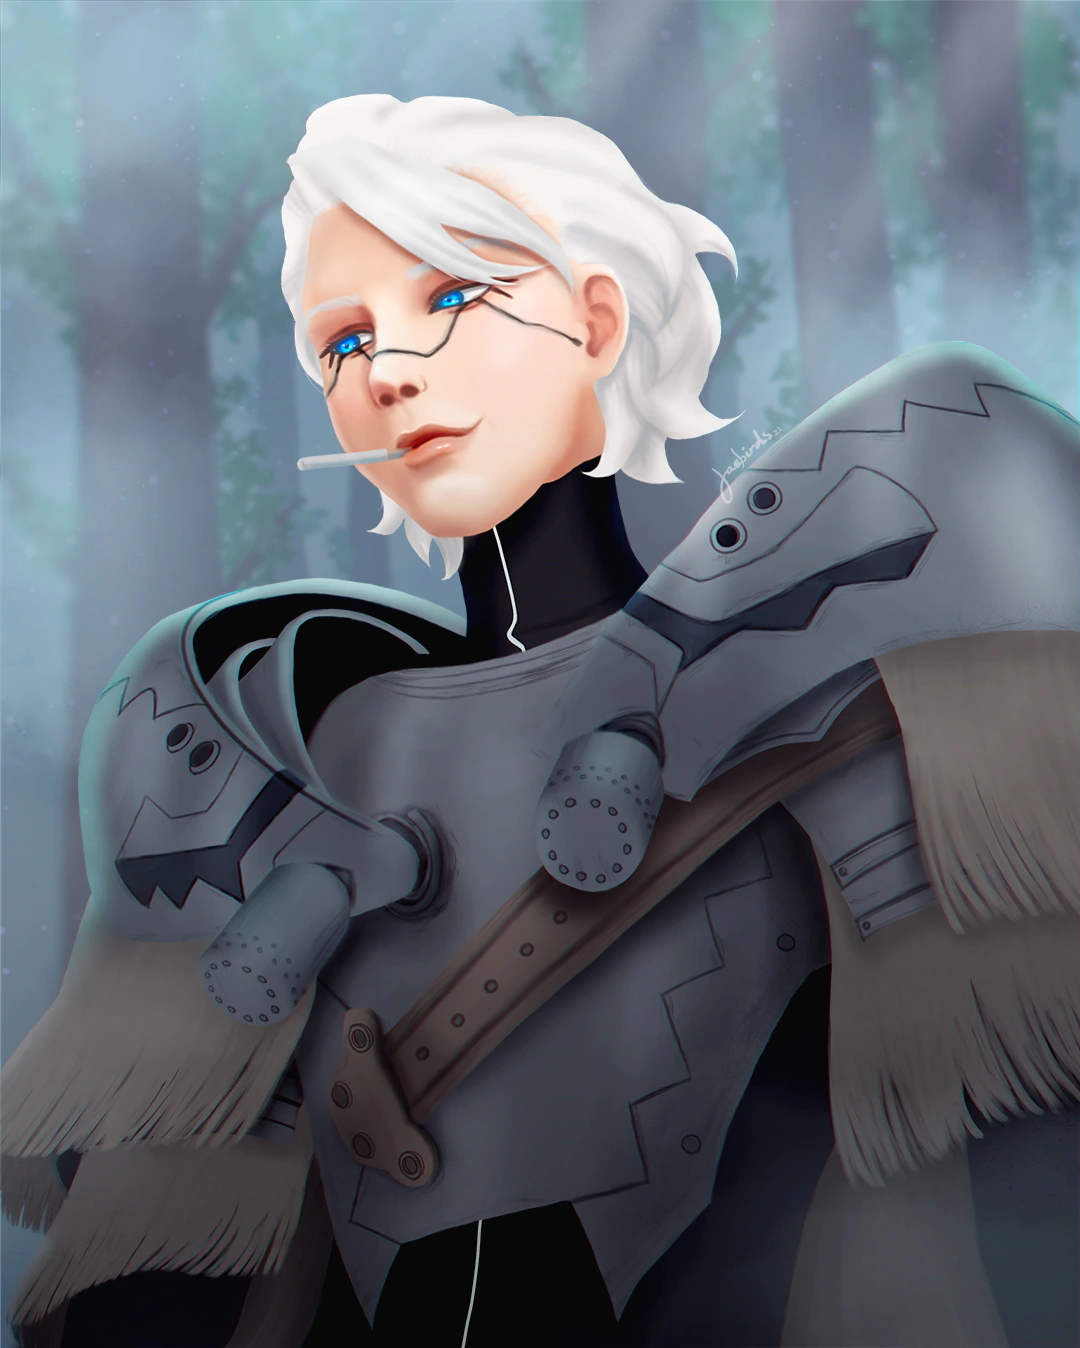
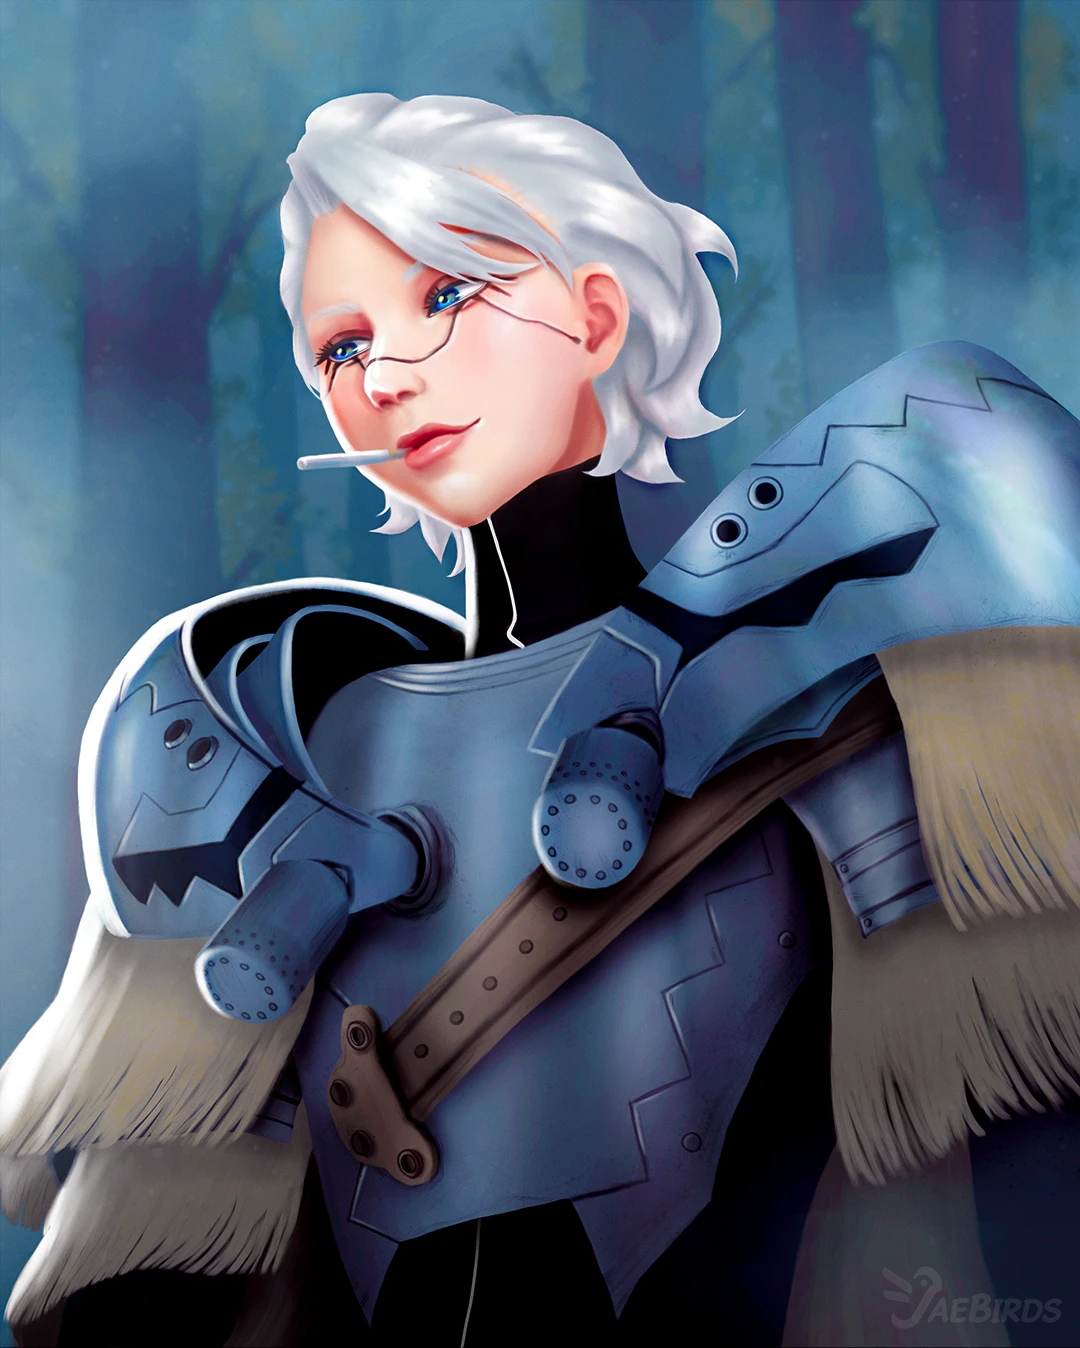
Added new art and fixed sidebar hover

diff --git a/dist/style.css b/dist/style.css
@@ -1,1 +1,1 @@
-html{display:none}.tooltiptheme{border-radius:5px;font-family:"Lato",sans-serif;font-size:.8rem;background:#8f51e1;color:#fff}*::-moz-selection{background-color:#8093f1;color:#fff}*::selection,*::-moz-selection,*::-webkit-selection{background-color:#8093f1;color:#fff}html,body,p,blockquote{font-size:12pt;margin:0;padding:0;list-style:none}p{margin-bottom:10px}body{font-family:"Lato",sans-serif;color:#444;background:#fdc5f5;background:linear-gradient(180deg, rgb(253, 197, 245) 0%, rgb(179, 136, 235) 100%);background-repeat:no-repeat;background-attachment:fixed}small{font-size:.6rem}big{font-size:10.9rem}ul{text-align:left}ul,ol{margin-left:-25px}hr{border:0;height:1px;background-image:linear-gradient(to right, rgba(0, 0, 0, 0), rgba(0, 0, 0, 0.75), rgba(0, 0, 0, 0))}a{color:#8093f1;text-decoration:none;position:relative;transition:all .4s ease-in-out}a[data-fancybox]{cursor:zoom-in}#content{position:absolute;top:55px;margin-left:320px}#overlay{position:relative;opacity:.9;z-index:9}#sidebarbg,#topbar,#topbarmask{background-color:#fff}#sidebarbg{position:fixed;height:100%;width:300px;left:0;padding-top:150px;margin-left:0;box-shadow:0 0 15px 0 rgba(0,0,0,.15)}#sidebar{position:absolute;height:auto;width:auto;max-width:450px;bottom:12%;right:10px;float:right}#topbar{position:fixed;width:100%;height:45px;top:0;z-index:9;box-shadow:0 0 10px 0 rgba(0,0,0,.15);-webkit-user-select:none;-moz-user-select:none;user-select:none}#topbar .right-aligned{position:absolute;padding:7px 10px;padding-right:55px;right:0px;z-index:9;font-size:1.2rem}#topbar .right-aligned i,#topbar .right-aligned #topbar img{color:#b388eb;vertical-align:middle;display:inline-block;transition:all .3s ease-in-out}#topbar .right-aligned i :hover,#topbar .right-aligned #topbar img :hover{color:#8f51e1}#topbarcontent{position:absolute;width:100%;height:20px;padding:8px 10px;left:350px;text-align:center}#topbarmask{position:fixed;width:300px;height:60px;left:0px;z-index:10}.bottom-bar{text-align:center;padding:8px;font-size:1.3rem;display:none}.bottom-bar i,.bottom-bar img{color:#b388eb;margin:0px 3px}.menubutton{float:left;font-size:1.3rem;padding:1px 15px;color:#8093f1;text-align:center;letter-spacing:0;cursor:pointer;transition:all .3s ease-in-out}.menubutton :hover{letter-spacing:1px;color:#4763eb}#sidebarbg h3{font-size:1.6rem;padding:0 25px;color:#8f51e1;font-weight:normal}.sort-menu{list-style-type:none;padding:0;overflow-y:auto;max-height:calc(100vh - 140px)}.sort-menu li{padding:7px;padding-left:80px;font-size:1.3rem;cursor:pointer;color:#444;background-color:#fff;transition:all .4s ease-in-out}.sort-menu li :hover{background-color:#fdc5f5;color:#111}.sort-menu li.sub-menu{padding:5px;padding-left:90px;font-size:.85rem}.sort-menu li.selected{background-color:#72ddf7;color:#333}#website-logo{position:fixed;top:50px;left:30px;height:100px;width:220px;background-size:contain;background-repeat:no-repeat;background-image:url("/images/jaebirds logo.webp");z-index:99}#website-logo.mini{top:5px;left:55px;height:35px;width:150px}.item{width:calc(25% - 11px);max-width:500px;min-height:100px;margin-bottom:8px;background-color:#eee;background-image:url("/images/loader.gif");background-repeat:no-repeat;background-position:center}.item img{max-width:100%;transition:all .3s ease-in-out}.item img,.item video,.item iframe{margin-bottom:-4px}.item .video-container{position:relative;padding-bottom:56.25%;height:0;overflow:hidden}.item .video-container iframe{pointer-events:none;position:absolute;top:0;left:0;width:100%;height:100%}.item video{max-width:100%;width:100%}.item,x:-moz-any-link{margin:7px}.item-bottom{position:absolute;bottom:0px;background-color:#000;color:#fff;opacity:0;height:20px;width:calc(100% - 10px);text-align:center;padding:5px;transition:all .3s ease-in-out}.item-bottom a{color:#fff}.item-bottom i{color:#f7aef8;margin:0 4px}.item:hover .item-bottom{opacity:.75}.video-item-icon{position:absolute;display:flex;justify-content:center;align-items:center;font-size:50pt;color:#fff;opacity:.8;top:0;width:100%;height:100%;pointer-events:none;transition:all .3s ease-in-out}.video-item-icon i{background-color:rgba(128,147,241,.75);padding:25px 30px;border-radius:15px}.item:hover .video-item-icon{opacity:1}.end-card{background-color:#fff;background-image:none;display:table;height:200px}.end-card p{padding:5px;display:table-cell;vertical-align:middle;text-align:center}.end-card i{font-size:5rem;margin:5px auto;opacity:.1;position:absolute;top:50%;left:50%;transform:translate(-50%, -50%)}.content-popup{position:fixed;height:auto;max-height:80%;background-color:#fff;border-radius:3px;padding:20px;width:500px;max-width:85vw;margin-top:70px;left:50%;transform:translate(-50%, 0%);margin-bottom:30px;display:none;text-align:center;opacity:.9;overflow-x:hidden;overflow-y:auto}.content-popup h1{font-style:italic;color:#8093f1}.content-popup>p{margin:15px auto;padding:10px;text-align:justify;-moz-text-align-last:center;text-align-last:center}.profile-image{width:120px;height:120px;margin:10px auto;border-radius:120px;background-image:url("/images/me.jpg");background-size:cover}figure.shine{position:relative}figure.shine::before{position:absolute;top:0;left:-75%;z-index:2;display:block;content:"";width:50%;height:100%;background:linear-gradient(to right, rgba(255, 255, 255, 0) 0%, rgba(255, 255, 255, 0.3) 100%);transform:skewX(-25deg)}figure.shine.shine:hover::before{animation:shine 2s}@keyframes shine{100%{left:125%}}.about-container .about-item{display:inline-block;vertical-align:top;padding:10px;margin:3px;width:120px}.about-container .about-item h2{font-size:1.2rem;line-height:25pt}.about-container .about-item i{font-size:4rem;margin-bottom:10px;display:inline-block;vertical-align:middle}.about-container .about-item p{text-align:left;padding-left:10px;margin-bottom:0}.about-container .about-item ul{padding:0;margin:0}.about-container .about-item ul li:first-child{margin-top:5px}.about-container .about-item span{font-weight:bold;font-style:italic;margin-right:8px}.about-container .about-item:first-of-type i,.about-container .about-item:first-of-type h2,.about-container .about-item:first-of-type span{color:#f38af5}.about-container .about-item:nth-of-type(2){width:150px}.about-container .about-item:nth-of-type(2) i,.about-container .about-item:nth-of-type(2) h2,.about-container .about-item:nth-of-type(2) span{color:#b388eb}.about-container .about-item:nth-of-type(3) i,.about-container .about-item:nth-of-type(3) h2{color:#8093f1}.about-container ul{list-style-type:none;padding:0px;padding-left:10px}.about-container ul.skills>li{margin-bottom:2px;font-weight:bold}.about-container ul.skills ul{font-size:.8rem;list-style-type:none;padding-left:5px;margin-bottom:10px}.about-container ul.skills i,.about-container ul.dreams i{font-size:.8rem;margin-bottom:0}.about-container ul ul li{padding:4px 5px;margin:0;font-size:.8rem;font-weight:normal}.about-container ul.dreams li{margin-bottom:4px}#contact-popup form{text-align:left;padding:5px 20%}#contact-popup form label{margin-bottom:3px;display:block}#contact-popup form input,#contact-popup form select,#contact-popup form textarea{width:100%}#contact-popup form textarea{resize:none}#contact-popup form .centered{width:auto;margin:0 auto;text-align:center}#contact-popup form button{margin:5px;padding:20px;width:100px;background-color:#b388eb;color:#fff;font-weight:bold;font-size:1rem;border:none;cursor:pointer}#contact-popup .error{color:red}#contact-popup .fa-envelope{margin-right:8px}#contactFormError{display:none}#contactFormSubmitted{position:absolute;width:100%;text-align:center;font-weight:bold;display:none}.fancybox-caption__body a{text-decoration:underline !important}@media screen and (max-width: 1845px){.item{width:calc(33% - 8px)}}@media screen and (max-width: 1350px){.item{width:calc(49% - 5px)}}@media screen and (max-width: 1280px){html{font-size:14pt}#sidebarbg{margin-left:-300px;padding-top:80px;width:250px}#overlay{opacity:.95}#topbar{height:60px}#topbar .right-aligned{padding:14px 22px 14px 10px}#topbarmask{display:none}#topbarcontent{margin-left:-280px}.menubutton{font-size:1rem;padding:10px 15px 9px 15px}#content{margin-left:0px !important;width:calc(100vw - 60px);padding:0 30px;top:70px;left:50%;transform:translate(-50%, 0%);text-align:center}.item,.item iframe{width:calc(35% - 46px)}#website-logo,#website-logo.mini{top:7px;left:20px;height:45px;width:50px;background-image:url("/images/jaebirds logo small.webp")}}@media screen and (max-width: 1000px){.item,.item iframe{width:calc(50% - 36px)}}@media screen and (max-width: 600px){.item{width:calc(100% - 60px)}}@media screen and (max-width: 524px){#topbar .right-aligned{display:none}.bottom-bar{display:block}.about-item{display:block !important;margin:10px auto !important;width:150px !important}}
+html{display:none}.tooltiptheme{border-radius:5px;font-family:"Lato",sans-serif;font-size:.8rem;background:#8f51e1;color:#fff}*::-moz-selection{background-color:#8093f1;color:#fff}*::selection,*::-moz-selection,*::-webkit-selection{background-color:#8093f1;color:#fff}html,body,p,blockquote{font-size:12pt;margin:0;padding:0;list-style:none}p{margin-bottom:10px}body{font-family:"Lato",sans-serif;color:#444;background:#fdc5f5;background:linear-gradient(180deg, rgb(253, 197, 245) 0%, rgb(179, 136, 235) 100%);background-repeat:no-repeat;background-attachment:fixed}small{font-size:.6rem}big{font-size:10.9rem}ul{text-align:left}ul,ol{margin-left:-25px}hr{border:0;height:1px;background-image:linear-gradient(to right, rgba(0, 0, 0, 0), rgba(0, 0, 0, 0.75), rgba(0, 0, 0, 0))}a{color:#8093f1;text-decoration:none;position:relative;transition:all .4s ease-in-out}a[data-fancybox]{cursor:zoom-in}#content{position:absolute;top:55px;margin-left:320px}#overlay{position:relative;opacity:.9;z-index:9}#sidebarbg,#topbar,#topbarmask{background-color:#fff}#sidebarbg{position:fixed;height:100%;width:300px;left:0;padding-top:150px;margin-left:0;box-shadow:0 0 15px 0 rgba(0,0,0,.15)}#sidebar{position:absolute;height:auto;width:auto;max-width:450px;bottom:12%;right:10px;float:right}#topbar{position:fixed;width:100%;height:45px;top:0;z-index:9;box-shadow:0 0 10px 0 rgba(0,0,0,.15);-webkit-user-select:none;-moz-user-select:none;user-select:none}#topbar .right-aligned{position:absolute;padding:7px 10px;padding-right:55px;right:0px;z-index:9;font-size:1.2rem}#topbar .right-aligned i,#topbar .right-aligned #topbar img{color:#b388eb;vertical-align:middle;display:inline-block;transition:all .3s ease-in-out}#topbar .right-aligned i :hover,#topbar .right-aligned #topbar img :hover{color:#8f51e1}#topbarcontent{position:absolute;width:100%;height:20px;padding:8px 10px;left:350px;text-align:center}#topbarmask{position:fixed;width:300px;height:60px;left:0px;z-index:10}.bottom-bar{text-align:center;padding:8px;font-size:1.3rem;display:none}.bottom-bar i,.bottom-bar img{color:#b388eb;margin:0px 3px}.menubutton{float:left;font-size:1.3rem;padding:1px 15px;color:#8093f1;text-align:center;letter-spacing:0;cursor:pointer;transition:all .3s ease-in-out}.menubutton :hover{letter-spacing:1px;color:#4763eb}#sidebarbg h3{font-size:1.6rem;padding:0 25px;color:#8f51e1;font-weight:normal}.sort-menu{list-style-type:none;padding:0;overflow-y:auto;max-height:calc(100vh - 140px)}.sort-menu li{padding:7px;padding-left:80px;font-size:1.3rem;cursor:pointer;color:#444;background-color:#fff;transition:all .3s ease-in-out}.sort-menu li:hover{background-color:#fdc5f5;color:#111}.sort-menu li.sub-menu{padding:5px;padding-left:90px;font-size:.85rem}.sort-menu li.selected{background-color:#72ddf7;color:#333}#website-logo{position:fixed;top:50px;left:30px;height:100px;width:220px;background-size:contain;background-repeat:no-repeat;background-image:url("/images/jaebirds logo.webp");z-index:99}#website-logo.mini{top:5px;left:55px;height:35px;width:150px}.item{width:calc(25% - 11px);max-width:500px;min-height:100px;margin-bottom:8px;background-color:#eee;background-image:url("/images/loader.gif");background-repeat:no-repeat;background-position:center}.item img{max-width:100%;transition:all .3s ease-in-out}.item img,.item video,.item iframe{margin-bottom:-4px}.item .video-container{position:relative;padding-bottom:56.25%;height:0;overflow:hidden}.item .video-container iframe{pointer-events:none;position:absolute;top:0;left:0;width:100%;height:100%}.item video{max-width:100%;width:100%}.item,x:-moz-any-link{margin:7px}.item-bottom{position:absolute;bottom:0px;background-color:#000;color:#fff;opacity:0;height:20px;width:calc(100% - 10px);text-align:center;padding:5px;transition:all .3s ease-in-out}.item-bottom a{color:#fff}.item-bottom i{color:#f7aef8;margin:0 4px}.item:hover .item-bottom{opacity:.75}.video-item-icon{position:absolute;display:flex;justify-content:center;align-items:center;font-size:50pt;color:#fff;opacity:.8;top:0;width:100%;height:100%;pointer-events:none;transition:all .3s ease-in-out}.video-item-icon i{background-color:rgba(128,147,241,.75);padding:25px 30px;border-radius:15px}.item:hover .video-item-icon{opacity:1}.end-card{background-color:#fff;background-image:none;display:table;height:200px}.end-card p{padding:5px;display:table-cell;vertical-align:middle;text-align:center}.end-card i{font-size:5rem;margin:5px auto;opacity:.1;position:absolute;top:50%;left:50%;transform:translate(-50%, -50%)}.content-popup{position:fixed;height:auto;max-height:80%;background-color:#fff;border-radius:3px;padding:20px;width:500px;max-width:85vw;margin-top:70px;left:50%;transform:translate(-50%, 0%);margin-bottom:30px;display:none;text-align:center;opacity:.9;overflow-x:hidden;overflow-y:auto}.content-popup h1{font-style:italic;color:#8093f1}.content-popup>p{margin:15px auto;padding:10px;text-align:justify;-moz-text-align-last:center;text-align-last:center}.profile-image{width:120px;height:120px;margin:10px auto;border-radius:120px;background-image:url("/images/me.jpg");background-size:cover}figure.shine{position:relative}figure.shine::before{position:absolute;top:0;left:-75%;z-index:2;display:block;content:"";width:50%;height:100%;background:linear-gradient(to right, rgba(255, 255, 255, 0) 0%, rgba(255, 255, 255, 0.3) 100%);transform:skewX(-25deg)}figure.shine.shine:hover::before{animation:shine 2s}@keyframes shine{100%{left:125%}}.about-container .about-item{display:inline-block;vertical-align:top;padding:10px;margin:3px;width:120px}.about-container .about-item h2{font-size:1.2rem;line-height:25pt}.about-container .about-item i{font-size:4rem;margin-bottom:10px;display:inline-block;vertical-align:middle}.about-container .about-item p{text-align:left;padding-left:10px;margin-bottom:0}.about-container .about-item ul{padding:0;margin:0}.about-container .about-item ul li:first-child{margin-top:5px}.about-container .about-item span{font-weight:bold;font-style:italic;margin-right:8px}.about-container .about-item:first-of-type i,.about-container .about-item:first-of-type h2,.about-container .about-item:first-of-type span{color:#f38af5}.about-container .about-item:nth-of-type(2){width:150px}.about-container .about-item:nth-of-type(2) i,.about-container .about-item:nth-of-type(2) h2,.about-container .about-item:nth-of-type(2) span{color:#b388eb}.about-container .about-item:nth-of-type(3) i,.about-container .about-item:nth-of-type(3) h2{color:#8093f1}.about-container ul{list-style-type:none;padding:0px;padding-left:10px}.about-container ul.skills>li{margin-bottom:2px;font-weight:bold}.about-container ul.skills ul{font-size:.8rem;list-style-type:none;padding-left:5px;margin-bottom:10px}.about-container ul.skills i,.about-container ul.dreams i{font-size:.8rem;margin-bottom:0}.about-container ul ul li{padding:4px 5px;margin:0;font-size:.8rem;font-weight:normal}.about-container ul.dreams li{margin-bottom:4px}#contact-popup form{text-align:left;padding:5px 20%}#contact-popup form label{margin-bottom:3px;display:block}#contact-popup form input,#contact-popup form select,#contact-popup form textarea{width:100%}#contact-popup form textarea{resize:none}#contact-popup form .centered{width:auto;margin:0 auto;text-align:center}#contact-popup form button{margin:5px;padding:20px;width:100px;background-color:#b388eb;color:#fff;font-weight:bold;font-size:1rem;border:none;cursor:pointer}#contact-popup .error{color:red}#contact-popup .fa-envelope{margin-right:8px}#contactFormError{display:none}#contactFormSubmitted{position:absolute;width:100%;text-align:center;font-weight:bold;display:none}.fancybox-caption__body a{text-decoration:underline !important}@media screen and (max-width: 1845px){.item{width:calc(33% - 8px)}}@media screen and (max-width: 1350px){.item{width:calc(49% - 5px)}}@media screen and (max-width: 1280px){html{font-size:14pt}#sidebarbg{margin-left:-300px;padding-top:80px;width:250px}#overlay{opacity:.95}#topbar{height:60px}#topbar .right-aligned{padding:14px 22px 14px 10px}#topbarmask{display:none}#topbarcontent{margin-left:-280px}.menubutton{font-size:1rem;padding:10px 15px 9px 15px}#content{margin-left:0px !important;width:calc(100vw - 60px);padding:0 30px;top:70px;left:50%;transform:translate(-50%, 0%);text-align:center}.item,.item iframe{width:calc(35% - 46px)}#website-logo,#website-logo.mini{top:7px;left:20px;height:45px;width:50px;background-image:url("/images/jaebirds logo small.webp")}}@media screen and (max-width: 1000px){.item,.item iframe{width:calc(50% - 36px)}}@media screen and (max-width: 600px){.item{width:calc(100% - 60px)}}@media screen and (max-width: 524px){#topbar .right-aligned{display:none}.bottom-bar{display:block}.about-item{display:block !important;margin:10px auto !important;width:150px !important}}

diff --git a/index.html b/index.html
@@ -175,6 +175,18 @@ $(document).tooltip({
 
 <div id="content">
 
+	<div class="item art digitalart featured y2023">
+		<!-- Stanley Snyder repaint painting -  July 2023 -->
+		<a href="/images/stanley snyder 2.webp" data-fancybox="stanley-snyder-painting-2" data-caption="Digital painting of Stanley Snyder from Dr. Stone using Photoshop.">
+			<img data-src="/images/stanley snyder 2-small.webp" alt="" />
+		</a>
+		<div class="item-bottom">
+			<a href="https://twitter.com/JaebirdsArts/status/1676623762375036931" target="_blank"><i class="fab fa-twitter" aria-hidden="true" title="Twitter"></i></a>
+			<a href="https://www.instagram.com/p/CuUmrsDOm0I/" target="_blank"><i class="fab fa-instagram" aria-hidden="true" title="Instagram"></i></a>
+			<a href="https://www.redbubble.com/shop/ap/148000933" target="_blank"><i class="fa fa-shopping-cart" aria-hidden="true" title="RedBubble Store"></i></a>
+		</div>
+	</div>
+
 	<div class="item art digitalart y2023">
 		<!-- Makoto Yuki painting -  June 2023 -->
 		<a href="/images/makotoyuki.webp" data-fancybox="makoto-yuki-painting" data-caption="Digital painting of Makoto Yuki from Persona 3 using Photoshop.">
@@ -566,17 +578,6 @@ $(document).tooltip({
 		<a data-fancybox href="https://www.youtube.com/embed/5G6d7kMLy0c" data-caption="Book trailer for Diana Murray's Unicorn Night. Animated from images from the book using After Effects.">
 			<div class="video-container"><iframe data-src="https://www.youtube.com/embed/5G6d7kMLy0c" frameborder="0" allowfullscreen></iframe></div>
 		</a>
-	</div>
-
-	<div class="item art digitalart y2021 featured">
-		<!-- Stanley Snyder painting 2 -  Oct 2021 -->
-		<a href="/images/stanley snyder 2.webp" data-fancybox="stanley-snyder-painting-2" data-caption="Digital painting of Stanley Snyder from Dr. Stone using Photoshop.">
-			<img data-src="/images/stanley snyder 2-small.webp" alt="" />
-		</a>
-		<div class="item-bottom">
-			<a href="https://twitter.com/JaebirdsArts/status/1447234383128244231" target="_blank"><i class="fab fa-twitter" aria-hidden="true" title="Twitter"></i></a>
-			<a href="https://www.instagram.com/p/CU2uEIBAXAq/" target="_blank"><i class="fab fa-instagram" aria-hidden="true" title="Instagram"></i></a>
-		</div>
 	</div>
 
 	<div class="item art digitalart y2021 featured">

diff --git a/src/style.scss b/src/style.scss
@@ -191,12 +191,12 @@ a {
 		cursor: pointer;
 		color: #444;
 		background-color: #FFF;
-		-webkit-transition: all 0.4s ease-in-out;
-		-moz-transition: all 0.4s ease-in-out;
-		-o-transition: all 0.4s ease-in-out;
-		transition: all 0.4s ease-in-out;
+		-webkit-transition: all 0.3s ease-in-out;
+		-moz-transition: all 0.3s ease-in-out;
+		-o-transition: all 0.3s ease-in-out;
+		transition: all 0.3s ease-in-out;
 
-		:hover {
+		&:hover {
 			background-color: #FDC5F5;
 			color: #111;
 		}
